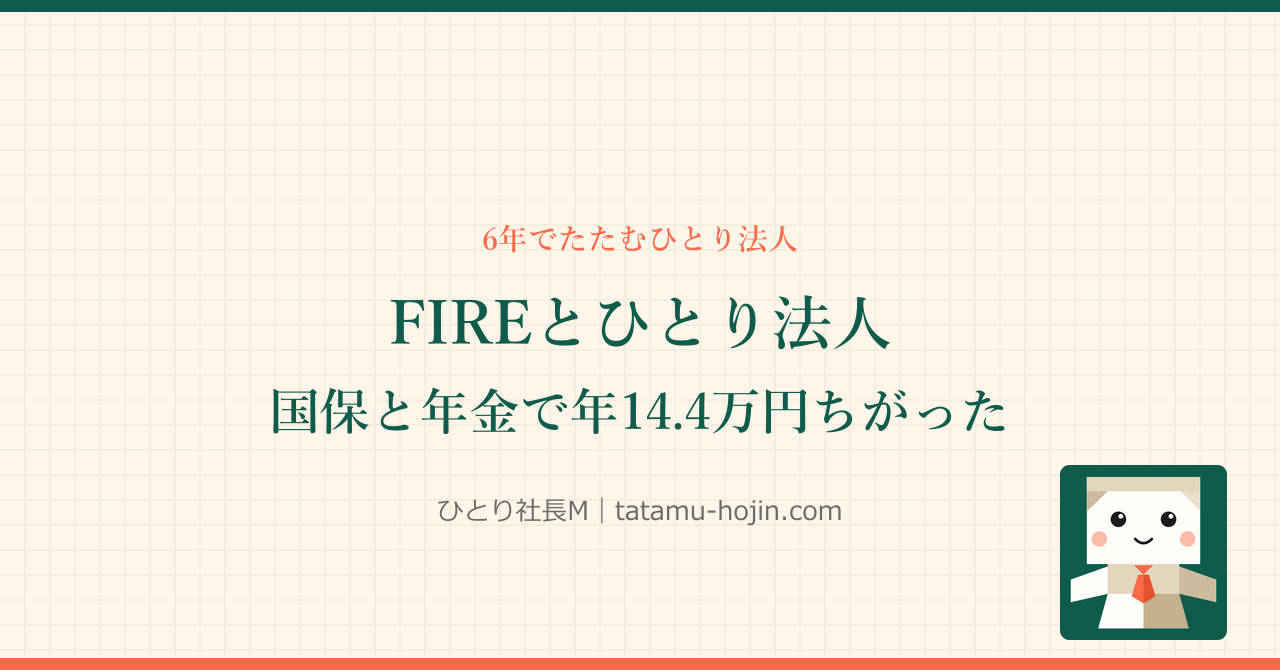
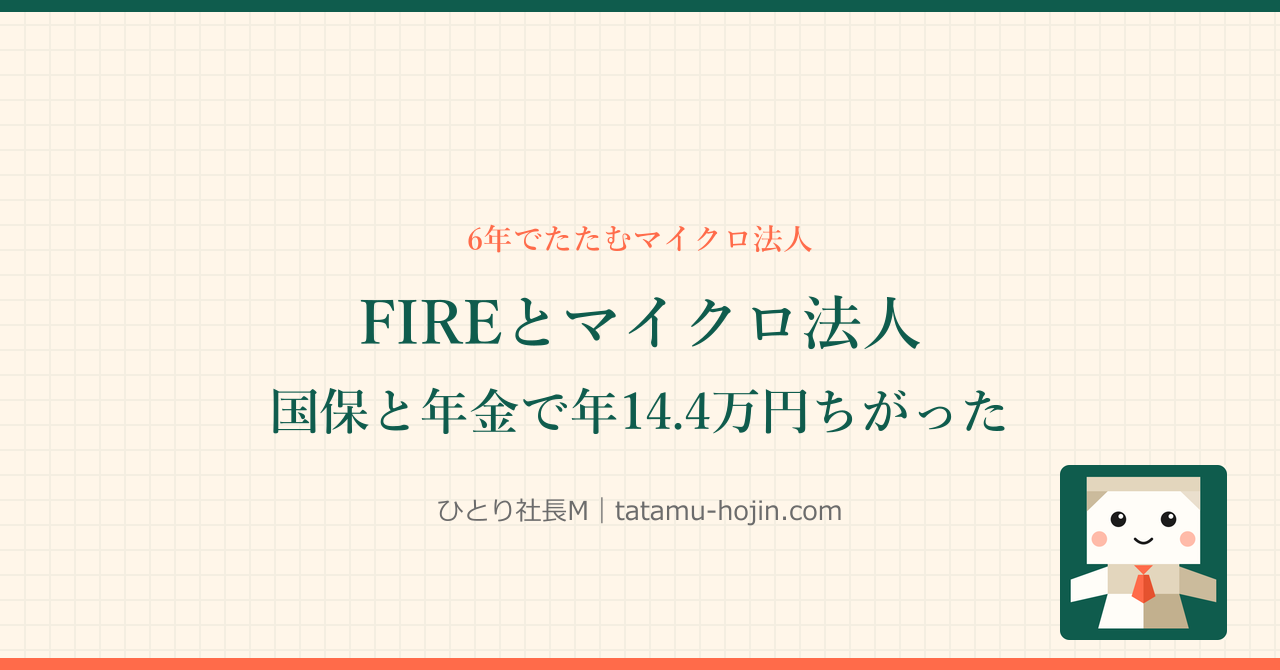
サイト名を「6年でたたむマイクロ法人」に変更、副題にFIRE、画像を書き出し直し

Changed region(s): [[0.2812, 0.4478, 0.7188, 0.5373], [0.375, 0.3284, 0.625, 0.3881]]

diff --git a/design/index.html b/design/index.html
@@ -2,4 +2,4 @@
 body{font-family:'Hiragino Sans','Noto Sans JP','Yu Gothic UI',sans-serif;background:#f4f4f2;margin:16px}
 .row{display:grid;grid-template-columns:repeat(3,1fr);gap:16px}.row img{box-shadow:0 0 0 1px #ccc;max-width:100%;vertical-align:middle}
 .dk{display:inline-block;background:#111;padding:8px;margin-left:8px}h2{font-size:14px;color:#1f6f6a;margin:24px 0 8px}</style>
-<h1 style="font-size:18px">6年でたたむひとり法人 デザイン案</h1><div class="row"><p>A：Mの字を紙の折り目で描く（畳む＋マイクロ法人のM）</p><p>B：6本の目盛り、1本目が既に消えたカウントダウン（6年）</p><p>C：正方形を対角に半分折り、折り返しをアクセント色に</p></div><h2>16px / ライト・ダーク</h2><div class="row"><div><img src="A-logo.svg" width="16"> <img src="A-logo.svg" width="32"> <span class="dk"><img src="A-logo.svg" width="16"> <img src="A-logo.svg" width="64"><img src="A-x-icon.svg" width="64" style="border-radius:50%"></span></div><div><img src="B-logo.svg" width="16"> <img src="B-logo.svg" width="32"> <span class="dk"><img src="B-logo.svg" width="16"> <img src="B-logo.svg" width="64"><img src="B-x-icon.svg" width="64" style="border-radius:50%"></span></div><div><img src="C-logo.svg" width="16"> <img src="C-logo.svg" width="32"> <span class="dk"><img src="C-logo.svg" width="16"> <img src="C-logo.svg" width="64"><img src="C-x-icon.svg" width="64" style="border-radius:50%"></span></div></div><h2>logo</h2><div class="row"><div><img src="A-logo.svg" width="200" style=""></div><div><img src="B-logo.svg" width="200" style=""></div><div><img src="C-logo.svg" width="200" style=""></div></div><h2>x-icon</h2><div class="row"><div><img src="A-x-icon.svg" width="200" style="border-radius:50%"></div><div><img src="B-x-icon.svg" width="200" style="border-radius:50%"></div><div><img src="C-x-icon.svg" width="200" style="border-radius:50%"></div></div><h2>x-header</h2><div class="row"><div><img src="A-x-header.svg" width="360" style=""></div><div><img src="B-x-header.svg" width="360" style=""></div><div><img src="C-x-header.svg" width="360" style=""></div></div><h2>ogp</h2><div class="row"><div><img src="A-ogp.svg" width="360" style=""></div><div><img src="B-ogp.svg" width="360" style=""></div><div><img src="C-ogp.svg" width="360" style=""></div></div></html>
+<h1 style="font-size:18px">6年でたたむマイクロ法人 デザイン案</h1><div class="row"><p>A：Mの字を紙の折り目で描く（畳む＋マイクロ法人のM）</p><p>B：6本の目盛り、1本目が既に消えたカウントダウン（6年）</p><p>C：正方形を対角に半分折り、折り返しをアクセント色に</p></div><h2>16px / ライト・ダーク</h2><div class="row"><div><img src="A-logo.svg" width="16"> <img src="A-logo.svg" width="32"> <span class="dk"><img src="A-logo.svg" width="16"> <img src="A-logo.svg" width="64"><img src="A-x-icon.svg" width="64" style="border-radius:50%"></span></div><div><img src="B-logo.svg" width="16"> <img src="B-logo.svg" width="32"> <span class="dk"><img src="B-logo.svg" width="16"> <img src="B-logo.svg" width="64"><img src="B-x-icon.svg" width="64" style="border-radius:50%"></span></div><div><img src="C-logo.svg" width="16"> <img src="C-logo.svg" width="32"> <span class="dk"><img src="C-logo.svg" width="16"> <img src="C-logo.svg" width="64"><img src="C-x-icon.svg" width="64" style="border-radius:50%"></span></div></div><h2>logo</h2><div class="row"><div><img src="A-logo.svg" width="200" style=""></div><div><img src="B-logo.svg" width="200" style=""></div><div><img src="C-logo.svg" width="200" style=""></div></div><h2>x-icon</h2><div class="row"><div><img src="A-x-icon.svg" width="200" style="border-radius:50%"></div><div><img src="B-x-icon.svg" width="200" style="border-radius:50%"></div><div><img src="C-x-icon.svg" width="200" style="border-radius:50%"></div></div><h2>x-header</h2><div class="row"><div><img src="A-x-header.svg" width="360" style=""></div><div><img src="B-x-header.svg" width="360" style=""></div><div><img src="C-x-header.svg" width="360" style=""></div></div><h2>ogp</h2><div class="row"><div><img src="A-ogp.svg" width="360" style=""></div><div><img src="B-ogp.svg" width="360" style=""></div><div><img src="C-ogp.svg" width="360" style=""></div></div></html>

diff --git a/src/lib/og.ts b/src/lib/og.ts
@@ -129,7 +129,7 @@ ${gridSvg()}
 <rect x="260" width="8" height="630" fill="${CORAL}"/>
 ${motifSvg(theme.motif, fg)}
 <text x="38" y="80" font-family="${MINCHO}" font-size="25" font-weight="700" fill="${fg}">6年でたたむ</text>
-<text x="38" y="114" font-family="${MINCHO}" font-size="25" font-weight="700" fill="${fg}">ひとり法人</text>
+<text x="38" y="114" font-family="${MINCHO}" font-size="25" font-weight="700" fill="${fg}">マイクロ法人</text>
 <rect x="194" y="44" width="58" height="54" rx="8" fill="#0f5c4d"/><svg x="198" y="50" width="50" height="42" viewBox="105 72 190 146"><polygon points="105,72 295,72 295,218 105,218" fill="#fffdf8"/><polygon points="105,72 295,72 295,96 105,96" fill="#e3d6bd"/><circle cx="158" cy="143" r="16" fill="#1b1b1b"/><circle cx="242" cy="143" r="16" fill="#1b1b1b"/><circle cx="126" cy="178" r="13" fill="#ff6b4a" opacity=".5"/><circle cx="274" cy="178" r="13" fill="#ff6b4a" opacity=".5"/><path d="M184 176 Q200 192 216 176" fill="none" stroke="#1b1b1b" stroke-width="6" stroke-linecap="round"/></svg>
 <text x="38" y="200" font-family="${FONT}" font-size="22" fill="${fg}" fill-opacity=".85">6年のうち</text>
 ${cells}

diff --git a/src/consts.ts b/src/consts.ts
@@ -1,8 +1,8 @@
 // サイト全体の設定。公開前に【要記入】を埋める。
 
-export const SITE_TITLE = '6年でたたむひとり法人';
+export const SITE_TITLE = '6年でたたむマイクロ法人';
 export const SITE_DESCRIPTION =
-	'適応障害で退職した会社員が、解散日まで決めてマイクロ法人を作った記録。設立費用・役員報酬・社会保険・解散の税務を実数で書きます。';
+	'ギリギリFIREの国保と税を、マイクロ法人で乗り切る記録。適応障害で退職した会社員が、解散日まで決めて法人を作りました。設立費用・役員報酬・社会保険・解散の税務を実数で書きます。';
 
 // 【要記入】仮決めのペンネーム
 export const AUTHOR = 'ひとり社長M';

diff --git a/editorial/note要約_初回6本.md b/editorial/note要約_初回6本.md
@@ -7,7 +7,7 @@
 ## 1. 前日譚1（休職）
 
 【タイトル】適応障害は、気分より先に体に出た。休職中の収入は給料の3分の2
-【タグ】#マイクロ法人 #ひとり法人 #適応障害 #傷病手当金 #休職
+【タグ】#マイクロ法人 #適応障害 #傷病手当金 #休職
 
 **迷ったこと**
 症状が出ても、しばらくは普通に働いていました。休むか、続けるか。会社に休めと言われたわけではありません。
@@ -26,7 +26,7 @@ https://tatamu-hojin.com/posts/prequel-1-kyushoku/
 ## 2. 前日譚2（退職）
 
 【タイトル】休職から辞めても、傷病手当金は1年6か月出た
-【タグ】#マイクロ法人 #ひとり法人 #傷病手当金 #退職 #適応障害
+【タグ】#マイクロ法人 #傷病手当金 #退職 #適応障害
 
 **迷ったこと**
 休職の期限が近づいて、戻るか辞めるかで迷いました。いちばん怖かったのは、辞めたら傷病手当金も止まるんじゃないか、ということです。
@@ -45,7 +45,7 @@ https://tatamu-hojin.com/posts/prequel-2-taishoku/
 ## 3. 前日譚3（任意継続と国保）
 
 【タイトル】退職後の健康保険は任意継続か国保か。先に窓口で聞いておけばよかったこと
-【タグ】#マイクロ法人 #ひとり法人 #任意継続 #国民健康保険 #退職
+【タグ】#マイクロ法人 #任意継続 #国民健康保険 #退職
 
 **迷ったこと**
 退職の翌日から、会社の健康保険証は使えません。任意継続にするか、国保にするかで迷いました。
@@ -64,7 +64,7 @@ https://tatamu-hojin.com/posts/prequel-3-kenpo/
 ## 4. 前日譚4（ハローワーク）
 
 【タイトル】病気で辞めたら、失業給付より先に「受給期間の延長」を出す
-【タグ】#マイクロ法人 #ひとり法人 #失業保険 #ハローワーク #受給期間延長
+【タグ】#マイクロ法人 #失業保険 #ハローワーク #受給期間延長
 
 **迷ったこと**
 退職して最初にハローワークでやることは、失業給付の申し込みだと思っていました。
@@ -82,17 +82,17 @@ https://tatamu-hojin.com/posts/prequel-4-hellowork/
 
 ## 5. 前日譚5（FIREと法人）
 
-【タイトル】FIREとひとり法人、国保と年金で年14.4万円ちがった
-【タグ】#マイクロ法人 #ひとり法人 #FIRE #国民健康保険 #厚生年金
+【タイトル】FIREとマイクロ法人、国保と年金で年14.4万円ちがった
+【タグ】#マイクロ法人 #FIRE #国民健康保険 #厚生年金
 
 **迷ったこと**
 再就職はしないと決めたあと、資産を取り崩して暮らすFIREにするか、自分の法人を作るかで迷いました。課税口座の約3分の2が含み益でした。
 
 **判断**
-ひとり法人にしました。最初から「処理が終わったらたたむ」と決めて、6年で解散する計画です。状況によって、延長する可能性は残しています。
+マイクロ法人にしました。最初から「処理が終わったらたたむ」と決めて、6年で解散する計画です。状況によって、延長する可能性は残しています。
 
 **理由**
-法人なしで少しずつ売ると、税を取り戻すほど国保が上がります。本人だけ国保に入る場合、年の負担は法人なしが約52.3万円、ひとり法人が約37.8万円で、差は約14.4万円でした。分かれ目は、利確が年約103万円。私は毎年200万円前後を売る計画です。厚生年金に入り続けたい、という理由もありました。
+法人なしで少しずつ売ると、税を取り戻すほど国保が上がります。本人だけ国保に入る場合、年の負担は法人なしが約52.3万円、マイクロ法人が約37.8万円で、差は約14.4万円でした。分かれ目は、利確が年約103万円。私は毎年200万円前後を売る計画です。厚生年金に入り続けたい、という理由もありました。
 
 自分の分かれ目の出し方は、ブログに書きました。
 https://tatamu-hojin.com/posts/prequel-5-hojin/
@@ -102,7 +102,7 @@ https://tatamu-hojin.com/posts/prequel-5-hojin/
 ## 6. 月次 1年目・第1回
 
 【タイトル】設立費用は当初計画5.0万円、実額は68,590円だった
-【タグ】#マイクロ法人 #ひとり法人 #合同会社設立 #設立費用 #法人設立
+【タグ】#マイクロ法人 #合同会社設立 #設立費用 #法人設立
 
 **迷ったこと**
 自治体の創業支援を受けて、登録免許税を半額の3万円にするかで迷いました。

diff --git a/editorial/X投稿文_初回.md b/editorial/X投稿文_初回.md
@@ -4,12 +4,12 @@
 
 ## プロフィール文
 
-ひとり法人の判断を、設立から解散まで書いています。適応障害で休職→退職→6年でたたむ法人へ。
+マイクロ法人の判断を、設立から解散まで書いています。適応障害で休職→退職→6年でたたむ法人へ。
 https://tatamu-hojin.com
 
 ## 固定ポスト
 
-適応障害で休職→退職→ひとり法人を作りました。
+適応障害で休職→退職→マイクロ法人を作りました。
 「6年でたたむ」と解散の時期まで決めて、設立費用・役員報酬・社会保険を実数で記録しています。
 制度は、私が実際に通った順番で書きます。
 https://tatamu-hojin.com
@@ -18,7 +18,7 @@ https://tatamu-hojin.com
 
 1/4
 辞めたら傷病手当金は止まるんじゃないか。退職を考えたとき、いちばん怖かったのはそこでした。
-#傷病手当金 #ひとり法人
+#傷病手当金 #マイクロ法人
 
 2/4
 調べると、条件を満たせば辞めたあとも続きます。①退職日まで同じ健保に1年以上 ②退職日の時点で受けている（受けられる状態）。私は通算1年6か月、満額受け取れました。
@@ -33,7 +33,7 @@ https://tatamu-hojin.com/posts/prequel-2-taishoku/
 ## 公開後の平日1投稿（最初の3平日）
 
 ### 1日目（前日譚5）
-迷ったこと：FIREか、ひとり法人か。
+迷ったこと：FIREか、マイクロ法人か。
 判断：法人にしました。
 理由：本人だけ国保に入る場合、年の負担が約14.4万円ちがいました。分かれ目は、課税口座の利確が年約103万円。私は毎年200万円前後売る計画です。
 #FIRE #国民健康保険

diff --git a/.claude/skills/write-article/SKILL.md b/.claude/skills/write-article/SKILL.md
@@ -1,6 +1,6 @@
 ---
 name: write-article
-description: 「6年でたたむひとり法人」の記事を書く・書き直すときの手順。素材集め→執筆→4人の査読→合格するまで修正→本人に提示、を必ずこの順で行う。記事の執筆・改稿・月次収支の作成を頼まれたら使う。
+description: 「6年でたたむマイクロ法人」の記事を書く・書き直すときの手順。素材集め→執筆→4人の査読→合格するまで修正→本人に提示、を必ずこの順で行う。記事の執筆・改稿・月次収支の作成を頼まれたら使う。
 ---
 
 # 記事を作る仕組み

diff --git a/CLAUDE.md b/CLAUDE.md
@@ -1,4 +1,4 @@
-# 6年でたたむひとり法人（Astro）— 作業ルール
+# 6年でたたむマイクロ法人（Astro）— 作業ルール
 
 - 記事は `src/content/posts/` に `.md` / `.mdx` で置く
 - frontmatter: `title`, `description`, `pubDate`, `updatedDate?`, `category`（prequel|concept|design|setup|operation|monthly）, `order?`（部内の並び順）, `tags[]`, `pr`（アフィリエイトありなら true＝冒頭にPR表記）, `draft`（true は本番ビルドに出ない）

diff --git a/README.md b/README.md
@@ -1,4 +1,4 @@
-# 6年でたたむひとり法人（Astro）
+# 6年でたたむマイクロ法人（Astro）
 
 ```
 npm run dev
